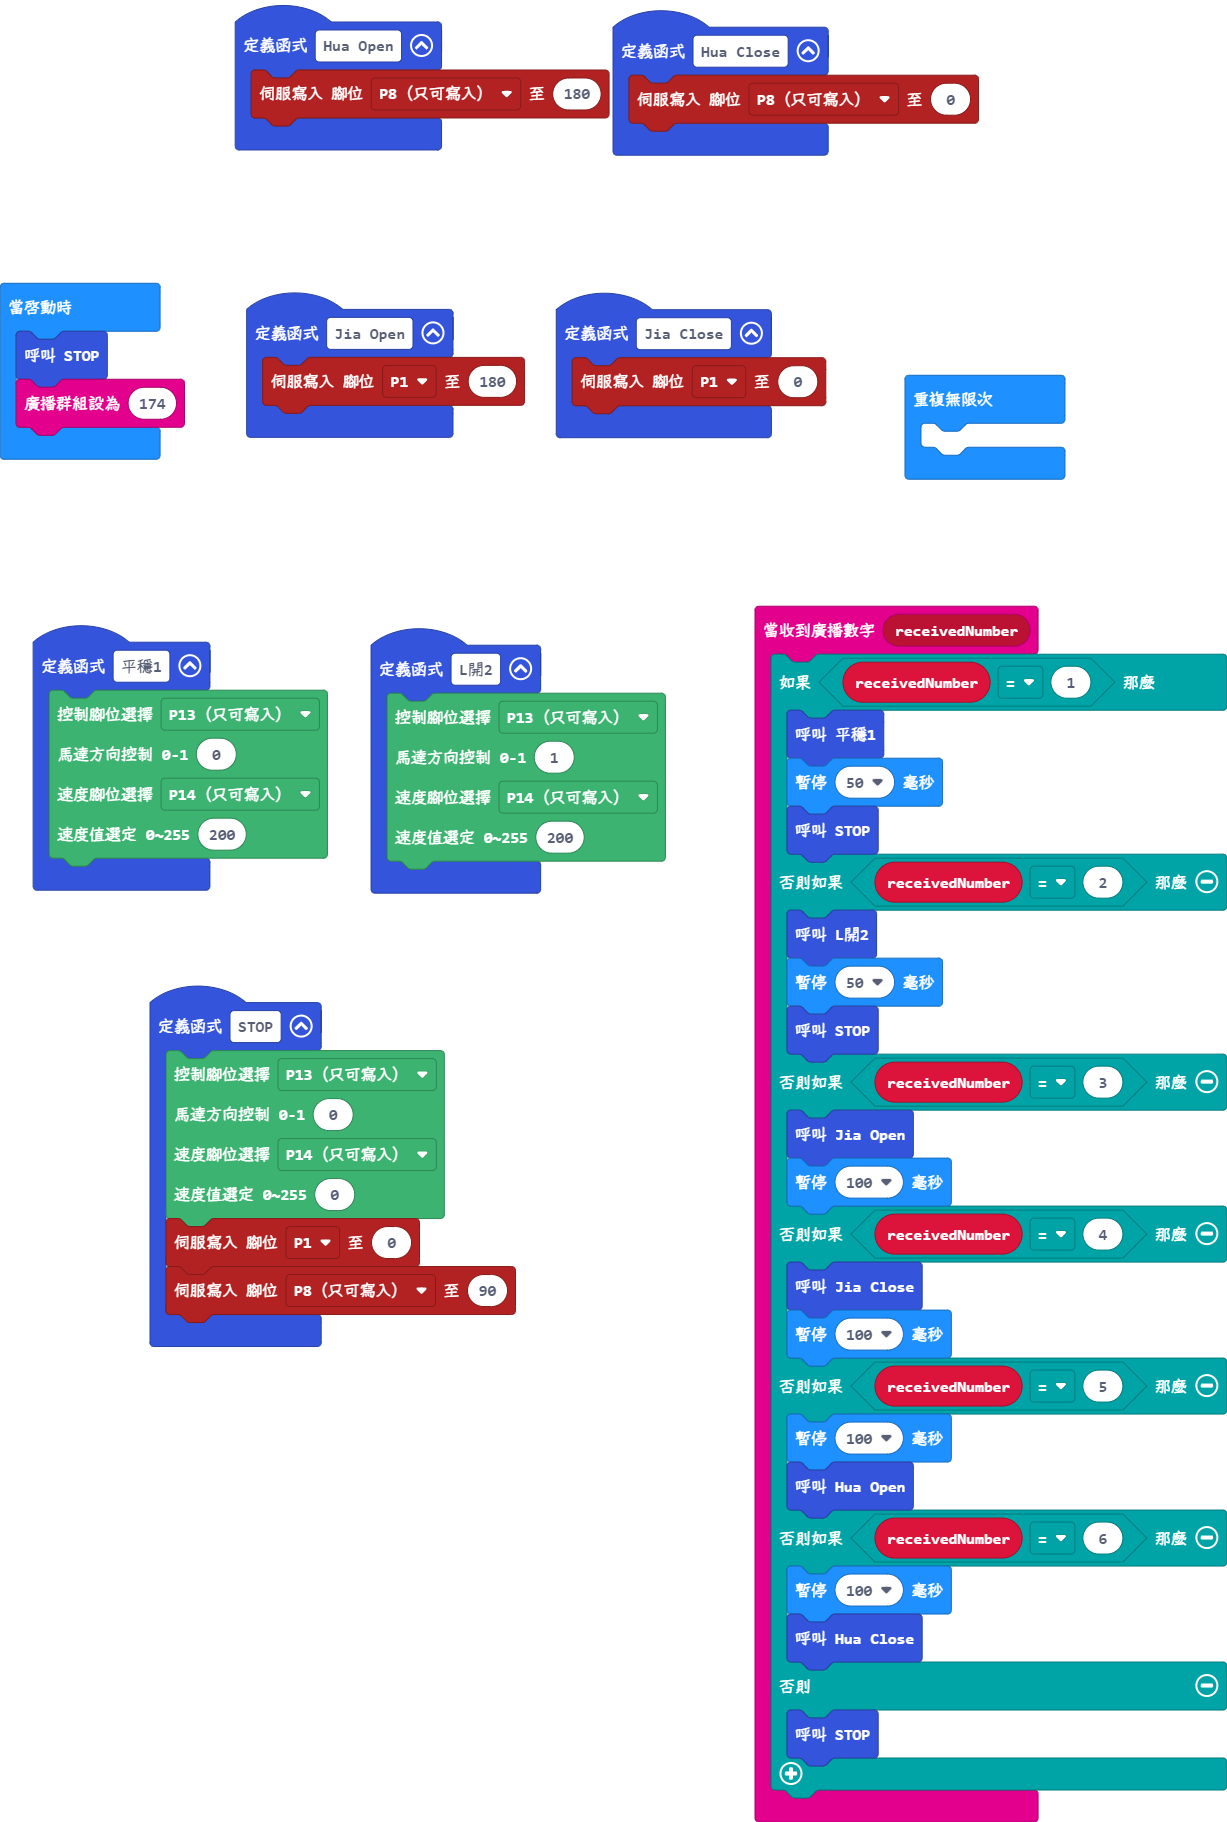
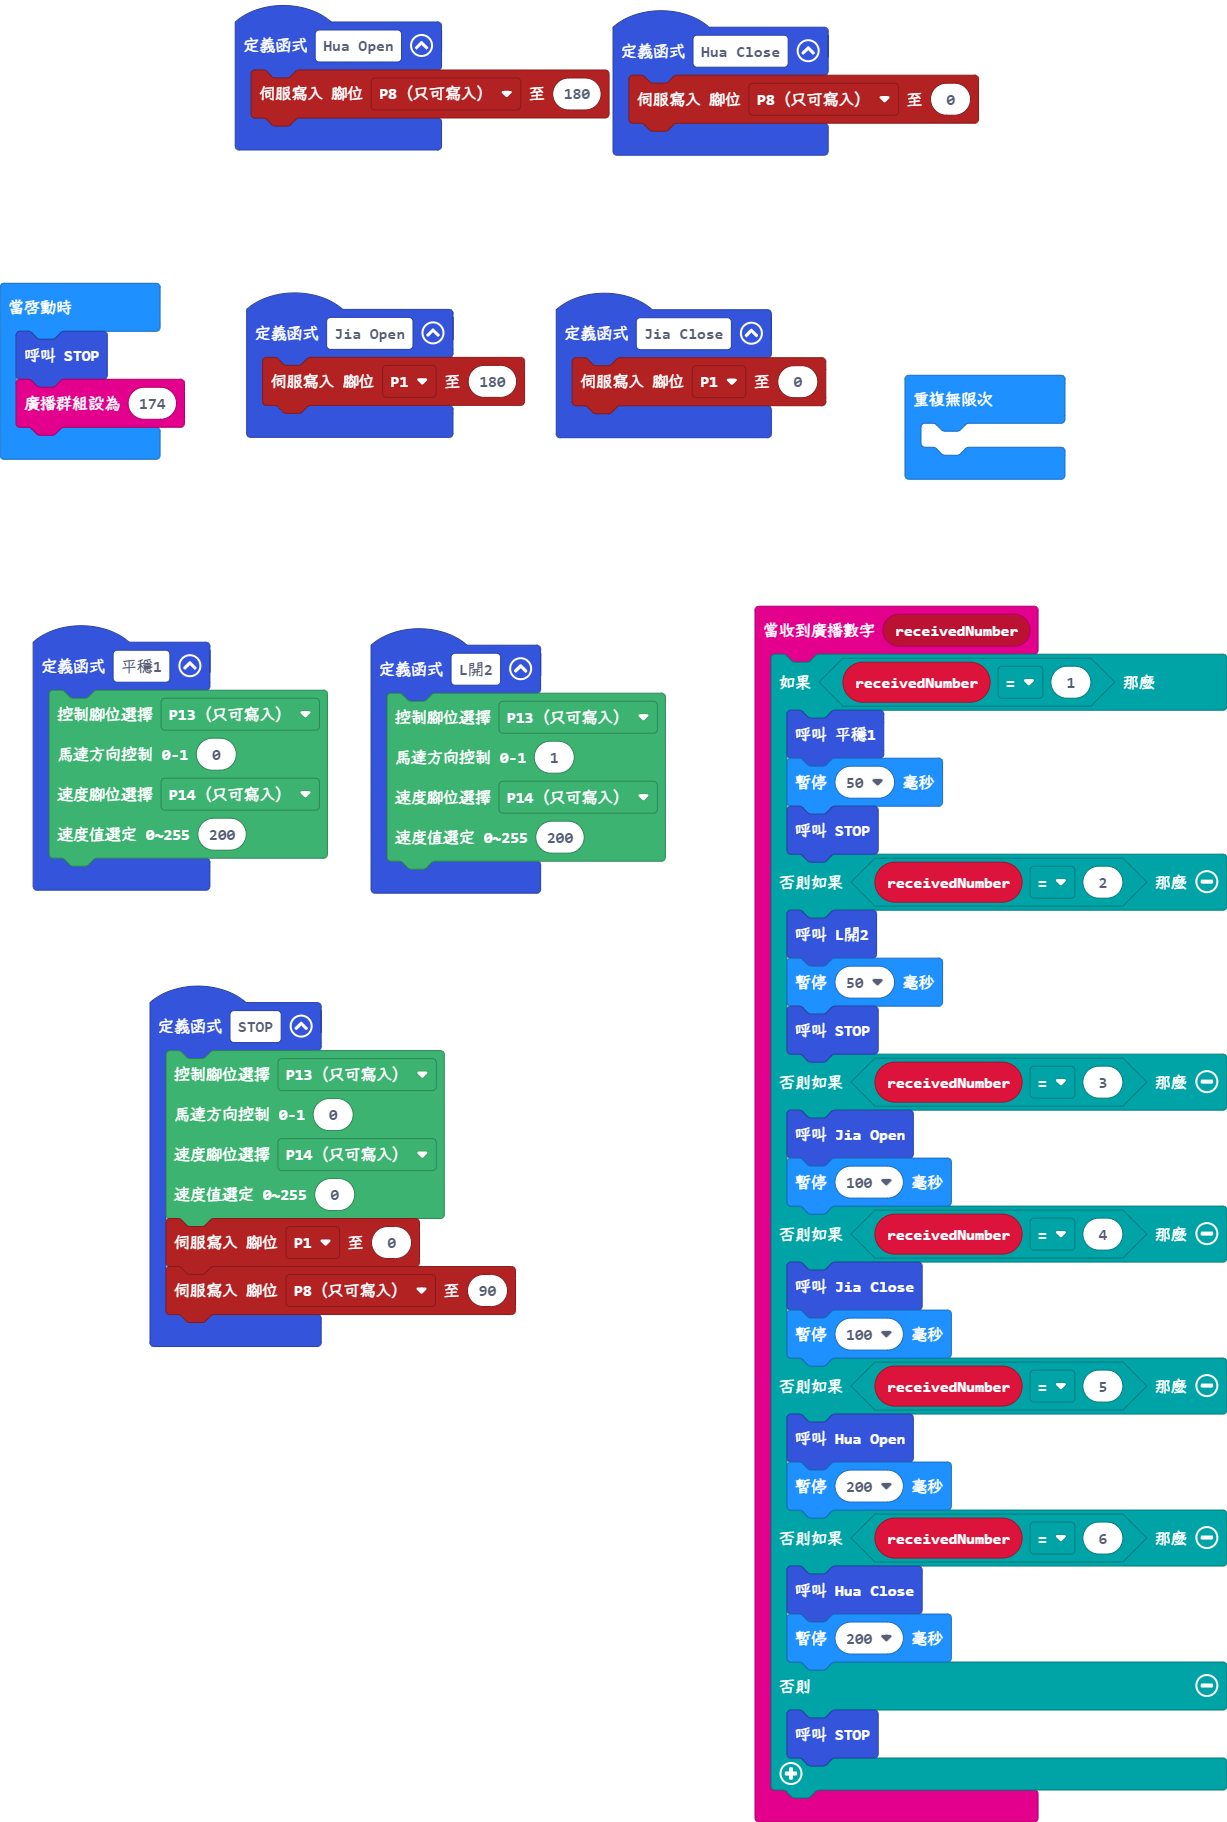
更新 main.blocks, main.ts

Changed region(s): [[0.6194, 0.8606, 0.7742, 0.9221], [0.6194, 0.7684, 0.7742, 0.8299]]

diff --git a/main.ts b/main.ts
@@ -17,11 +17,11 @@ radio.onReceivedNumber(function (receivedNumber) {
         Jia_Close()
         basic.pause(100)
     } else if (receivedNumber == 5) {
-        basic.pause(100)
         Hua_Open()
+        basic.pause(200)
     } else if (receivedNumber == 6) {
-        basic.pause(100)
         Hua_Close()
+        basic.pause(200)
     } else {
         STOP()
     }
